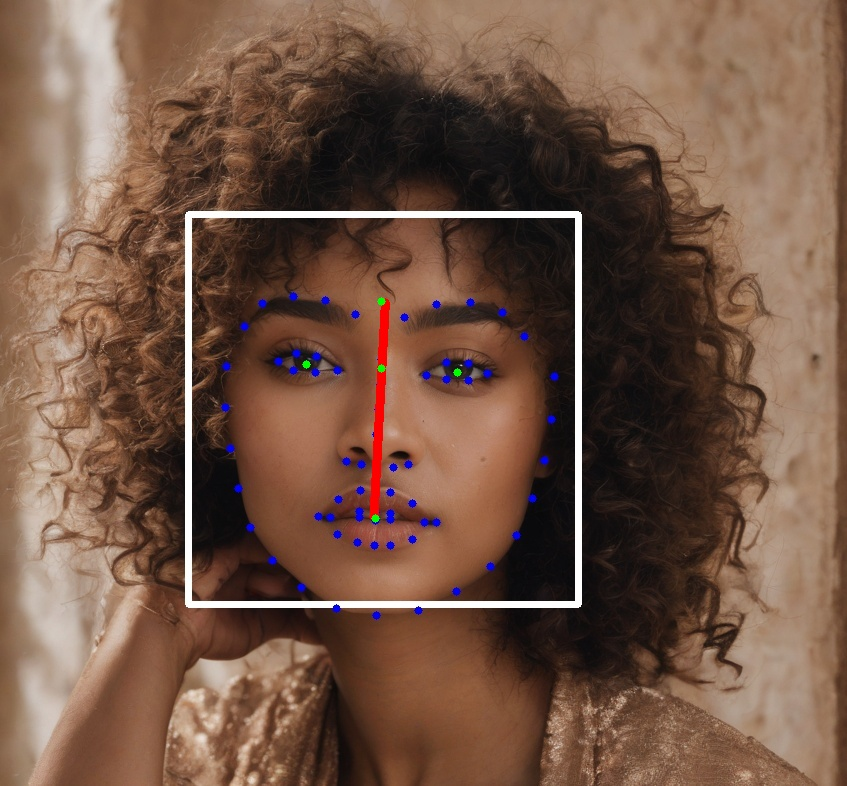
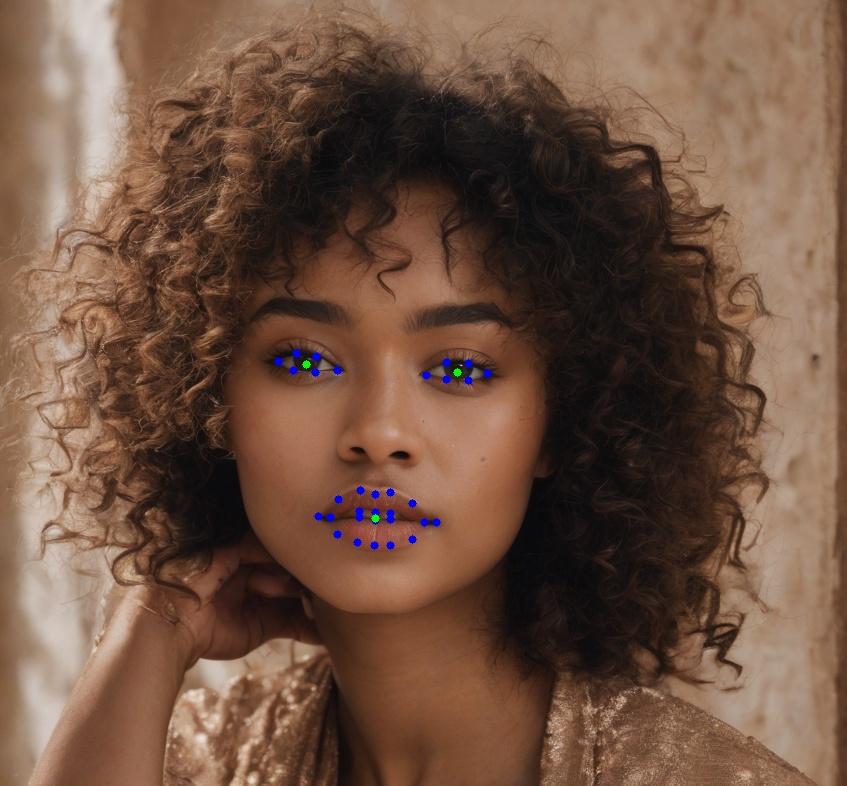
actualizar gitignore

diff --git a/procesamiento.py b/procesamiento.py
@@ -225,17 +225,17 @@ def cuerpo(imagenes, max_caras = 1, verbose = 1, input_dir = "detected"):
             image = cv2.imread(input_dir+"/"+imagen)
 
             #Dibujo frente y boca, solo se usa si la imagen viene vacia de copia facial 
-            if 0:
-                for i in frente:
-                    cv2.circle(image, (int(i[0]), int(i[1])), 1, (255, 0, 0), 5)
+            if 1:
+                #for i in frente[0]:
+                #    cv2.circle(image, (int(i[0]), int(i[1])), 1, (255, 0, 0), 5)
 
-                for i in boca:
+                for i in boca[0]:
                     cv2.circle(image, (int(i[0]), int(i[1])), 1, (255, 0, 0), 5)
 
             #Proyecciones de frente y boca, solo se usa para verificar
-            if 1:
-                #for i in np.arange(int(distfrente_ojo)):
-                #    cv2.circle(image, (int(origen_ojo[0]+p_eje_ojos[0]*i), int(origen_ojo[1]+p_eje_ojos[1]*i)), 1, (0, 0, 255), 5)
+            if 0:
+                for i in np.arange(int(distfrente_ojo)):
+                    cv2.circle(image, (int(origen_ojo[0]+p_eje_ojos[0]*i), int(origen_ojo[1]+p_eje_ojos[1]*i)), 1, (0, 0, 255), 5)
 
                 for i in np.arange(int(distboca_ojo)):
                     cv2.circle(image, (int(origen_ojo[0]+p_eje_ojos[0]*(-i)), int(origen_ojo[1]+p_eje_ojos[1]*(-i))), 1, (0, 0, 255), 5)
@@ -279,9 +279,9 @@ def cuerpo(imagenes, max_caras = 1, verbose = 1, input_dir = "detected"):
                 #    cv2.circle(image, (int(ojoder[0][0]+aux[0]*i), int(ojoder[0][1]+aux[1]*i)), 1, (255, 0, 0), 5)
     
             #origen y ejes u y v
-            if 1: 
-                #cv2.putText(image, "v" ,(int(origen_ojo[0]+p_eje_ojos[0]*25), int(origen_ojo[1]+p_eje_ojos[1]*25)), cv2.FONT_HERSHEY_SIMPLEX , 1, (0, 0, 255), 2)
-                #cv2.putText(image, "u" ,(int(origen_ojo[0]+eje_ojos[0]*25), int(origen_ojo[1]+eje_ojos[1]*25)), cv2.FONT_HERSHEY_SIMPLEX , 1, (0, 0, 255), 2)
+            if 0: 
+                cv2.putText(image, "v" ,(int(origen_ojo[0]+p_eje_ojos[0]*25), int(origen_ojo[1]+p_eje_ojos[1]*25)), cv2.FONT_HERSHEY_SIMPLEX , 1, (0, 0, 255), 2)
+                cv2.putText(image, "u" ,(int(origen_ojo[0]+eje_ojos[0]*25), int(origen_ojo[1]+eje_ojos[1]*25)), cv2.FONT_HERSHEY_SIMPLEX , 1, (0, 0, 255), 2)
                 cv2.circle(image, (int(origen_ojo[0]), int(origen_ojo[1])), 1, (0, 255, 0), 5)
 
             #Elipse
@@ -294,9 +294,9 @@ def cuerpo(imagenes, max_caras = 1, verbose = 1, input_dir = "detected"):
                     cv2.circle(image, (int(x), int(y)), 1, (0, 255, 0), 5)
     
             #Centroides ojos
-            if 0:
+            if 1:
                 for x, y in ojoder[0]:
-                    cv2.circle(image, (int(x), int(y)), 1, (0, 0, 255), 5)
+                    cv2.circle(image, (int(x), int(y)), 1, (255, 0, 0), 5)
 
                 for x, y in ojoizq[0]:
                     cv2.circle(image, (int(x), int(y)), 1, (255, 0, 0), 5)
@@ -307,7 +307,7 @@ def cuerpo(imagenes, max_caras = 1, verbose = 1, input_dir = "detected"):
                 cv2.circle(image, (boundingbox[0]+boundingbox[2], boundingbox[1]+boundingbox[3]), 1, (0, 255, 0), 5)
             
             #Guardar imagen procesada
-            cv2.imwrite('Read4.jpg', image)
+            cv2.imwrite('face-processed.jpg', image)
             #Mostrar imagen
             cv2.imshow("Image", cv2.resize(image,(900,800)))
             cv2.waitKey(0)

diff --git a/facial-landmark-from-file-modificada.py b/facial-landmark-from-file-modificada.py
@@ -109,7 +109,7 @@ def cuerpo(imagenes, minimo_ancho_de_cara = 57, verbose = 1, input_dir="input", 
     return
 
 
-verbose = 3
+verbose = 1
 imagen = 4
 minimo_ancho_de_cara = 50
 archivos = os.listdir("input")[4:5]
